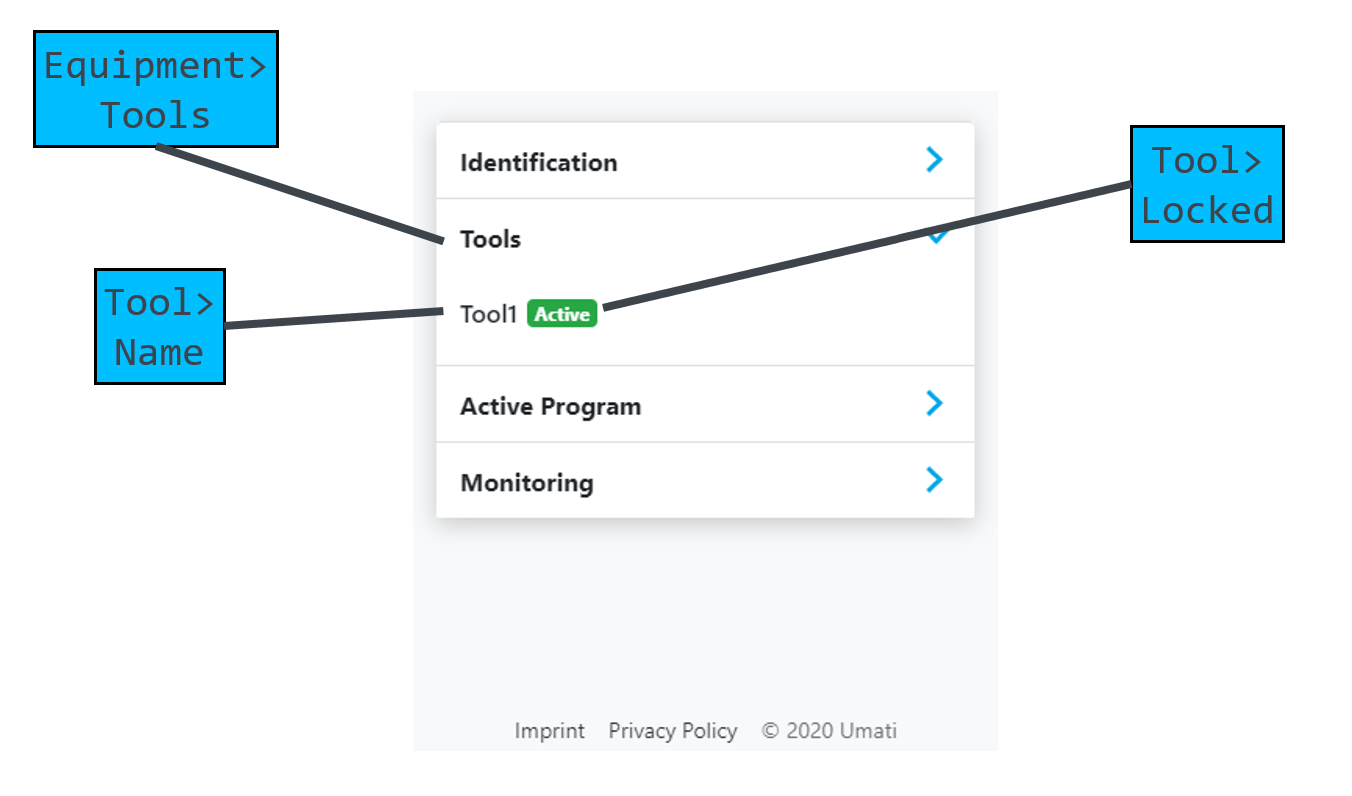
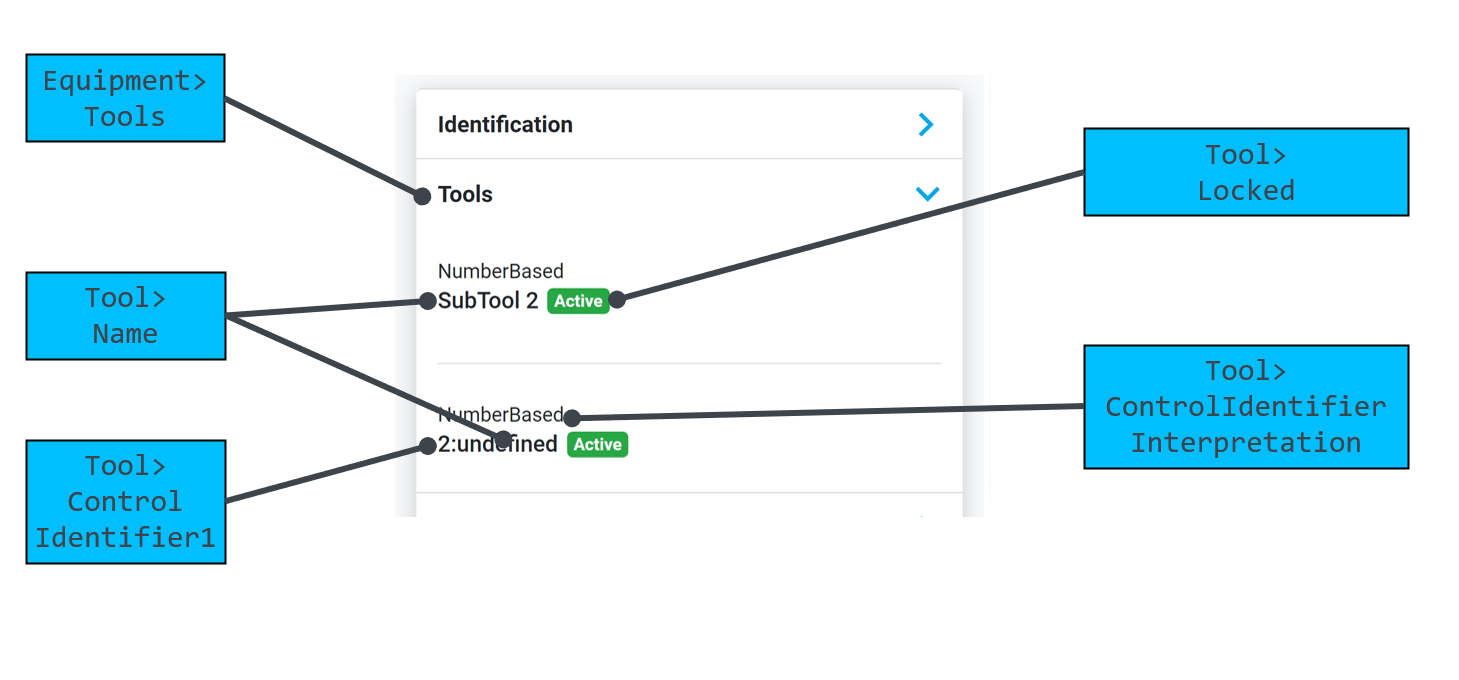
doc(MachineTool): updated pictures and mapping * rewording of details

diff --git a/Specs/Machinetools.md b/Specs/Machinetools.md
@@ -93,9 +93,7 @@ Fair shortnames are defined [here.](Fairs.md)
 
 - The machine will get a unique NamespaceURI after being integrated to the datahub by addition of a suffix to ensure unique namespaces.
 
-- **Change the BrowseName and DisplayName of MachineTool** to `Company (short only alphanumeric)-Machine Name (alphanumeric)`, e.g. `ISW-TestServerMachine` or `ISW-SharpDriller5000. This helps a human to identify the machine in the aggregated server. **Do not use any other characters than {A…Z, a…z, 0…9} for the name**. Skipping this step prevents an automated integration to the dashboard.
-
-## Value mapping between OPC UA companion specification and umati.app MachineTool
+## Value mapping between OPC UA companion specification and umati.app MachineTool page
 
 ### Machine Tool - Overview
 
@@ -130,6 +128,10 @@ A gap is left for periods of time in which no data was recorded (e.g. machine of
 
 ![ActiveProgram](../img/MachineTool/MT-ActiveProgram.png "MT ActiveProgram")
 
-### Machine Tool - Monitoring
+### Machine Tool - Monitoring (Machine Tool / Channel)
 
-![Monitoring](../img/MachineTool/MT-Monitoring.png "MT Monitoring")
+![Monitoring](../img/MachineTool/MT-Monitoring.png "MT Monitoring Machine Tool / Channel")
+
+### Machine Tool - Monitoring (Working Units)
+
+![Monitoring](../img/MachineTool/MT-Monitoring-WorkingUnit.png "MT Monitoring Working Units")
